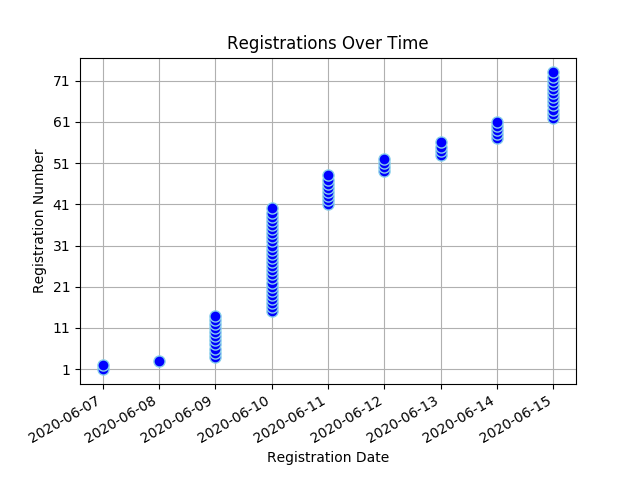
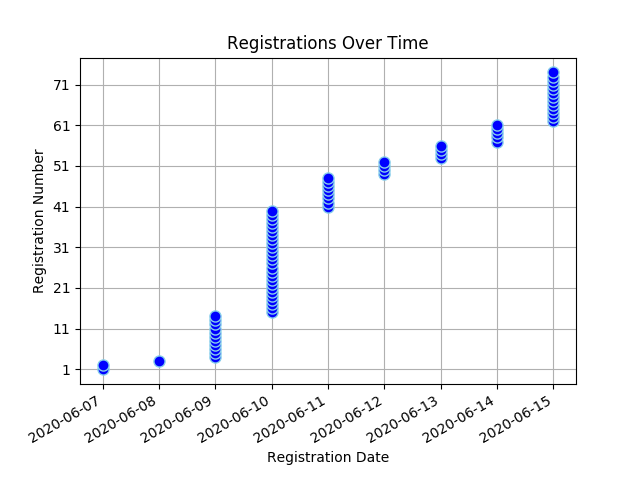
Registree stats backup on Mon Jun 15 14:01:39 SAST 2020

diff --git a/content/virtual_conf_stats/_index.md b/content/virtual_conf_stats/_index.md
@@ -16,7 +16,7 @@ draft: false
 </head>
 <body>
 <h1 style="color: #000000;">Virtual Convention Registration Stats</h1>
-<ul><li><strong>Number of Registrees</strong>: 73</li>
+<ul><li><strong>Number of Registrees</strong>: 74</li>
 </ul><a href="/docs/virtual_convention_stats.csv">Download registration details here</a>
 <h2>Registrees</h2>
 <table id="registreeTable" class="tablesorter" border="1" padding=1>
@@ -71,6 +71,7 @@ Club
 <tr><td>Meyer, Denis</td><td>Port Shepstone</td></tr>
 <tr><td>Michas, Roy</td><td>Midrand</td></tr>
 <tr><td>Mills, Patrick</td><td>Centurion</td></tr>
+<tr><td>Murray, Gary</td><td>Vereeniging</td></tr>
 <tr><td>Nulliah, Ramona</td><td>Durban Host</td></tr>
 <tr><td>Olivier, Debra</td><td>Sedgefield</td></tr>
 <tr><td>Pantoleon, IPP</td><td>Vereeniging Lions Club</td></tr>
